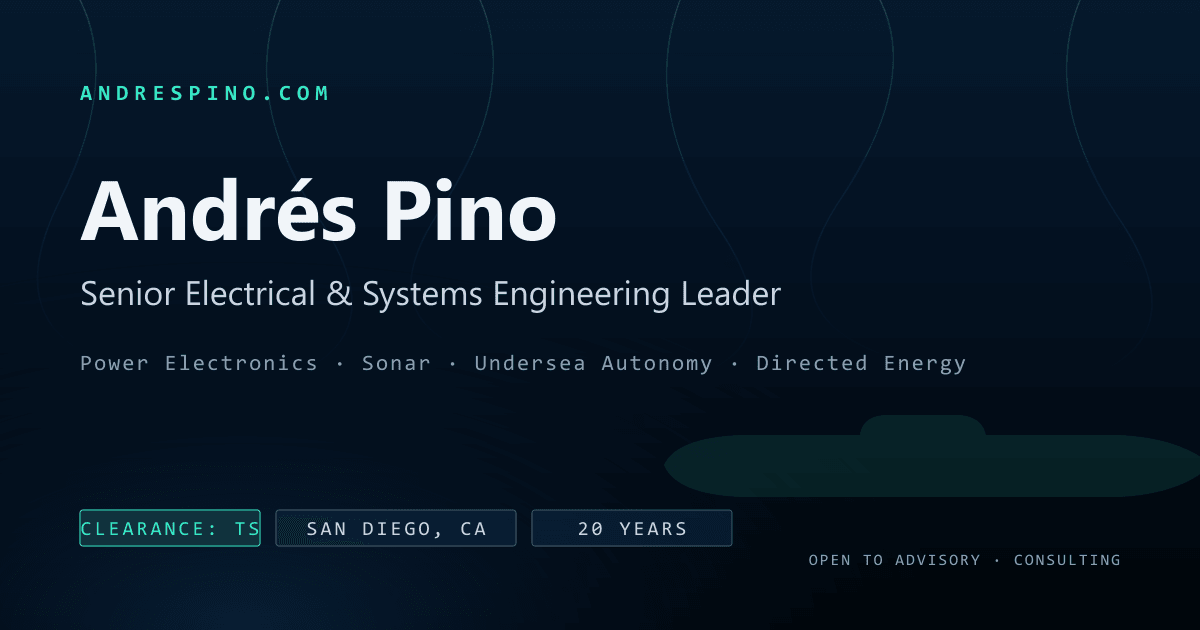
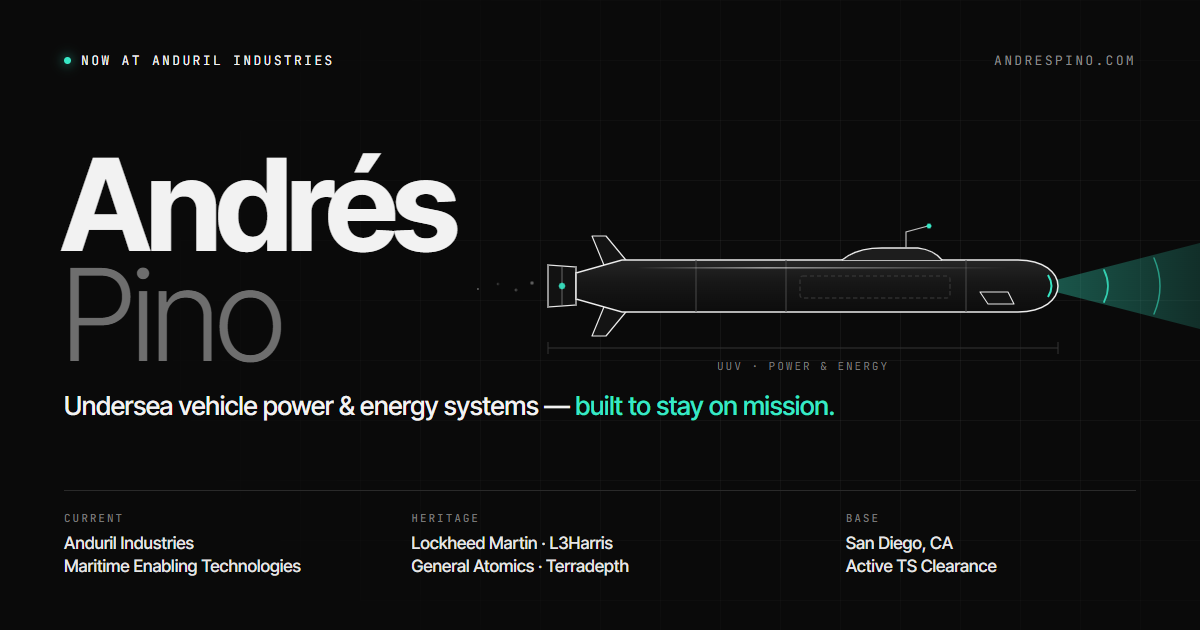
wip: scene performance pass + new share image (local checkpoint, unpublished)
- Drop per-frame drop-shadow filters from animated laser/flash elements
- Pause off-screen vehicles' inner animations (IntersectionObserver);
  drift continues so vehicles still re-enter view
- Lighter scene on phones (<=640px) and low-power devices
- Scene reveal now waits for web fonts; HELRAS layer joins deferral
- New og-image: Monolith layout with an original modular UUV drawing

diff --git a/src/styles/global.css b/src/styles/global.css
@@ -138,12 +138,18 @@
    fades them in smoothly. */
 .scene-deferred .background-scene,
 .scene-deferred .caustic-light,
-.scene-deferred .marine-snow {
+.scene-deferred .marine-snow,
+body.scene-deferred .helras-wave-layer {
   opacity: 0;
 }
+/* The HELRAS wave layer lives outside .background-scene (so it can sit above
+   content) and is positioned by % of page height — while fonts/content settle
+   it moves, which counted as layout shift. Deferring it with the rest of the
+   scene keeps it invisible until the page is stable. */
 .background-scene,
 .caustic-light,
-.marine-snow {
+.marine-snow,
+.helras-wave-layer {
   transition: opacity 500ms ease-out;
 }
 @media (prefers-reduced-motion: reduce) {
@@ -152,9 +158,13 @@
   .scene-deferred .marine-snow {
     opacity: 1;
   }
+  body.scene-deferred .helras-wave-layer {
+    opacity: 0.6;
+  }
   .background-scene,
   .caustic-light,
-  .marine-snow {
+  .marine-snow,
+  .helras-wave-layer {
     transition: none;
   }
 }
@@ -292,3 +302,30 @@ html.motion-paused *::before,
 html.motion-paused *::after {
   animation-play-state: paused !important;
 }
+
+/* ── Ambient-scene performance ──────────────────────────────────────────
+   Off-screen vehicles: freeze inner animations (descendants only, so the
+   vehicle's own drift continues and it re-enters view). Toggled by the
+   IntersectionObserver in BackgroundScene. */
+.is-offscreen * {
+  animation-play-state: paused !important;
+}
+
+/* Lighter scene for phones (≤640px) and low-power devices (.scene-lite,
+   set in BaseLayout): drop three mid-water vehicles and stop the costliest
+   decorative loops. The surface story, survey UUV, Marlin and HELRAS stay. */
+@media (max-width: 640px) {
+  .bg-vessel-mduuv,
+  .bg-vessel-manta,
+  .bg-vessel-la { display: none !important; }
+  .uuv-return { animation: none !important; opacity: 0.3; }
+  .bg-propeller-spin,
+  .caustic-blob { animation: none !important; }
+}
+html.scene-lite .bg-vessel-mduuv,
+html.scene-lite .bg-vessel-manta,
+html.scene-lite .bg-vessel-la { display: none !important; }
+html.scene-lite .uuv-return { animation: none !important; opacity: 0.3; }
+html.scene-lite .bg-propeller-spin,
+html.scene-lite .caustic-blob { animation: none !important; }
+
